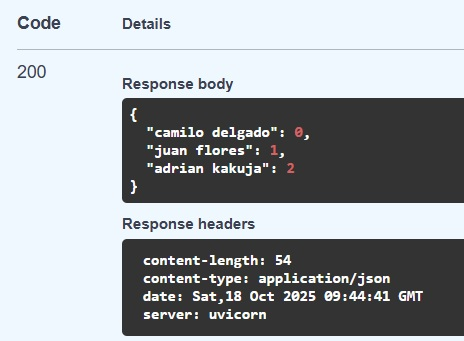
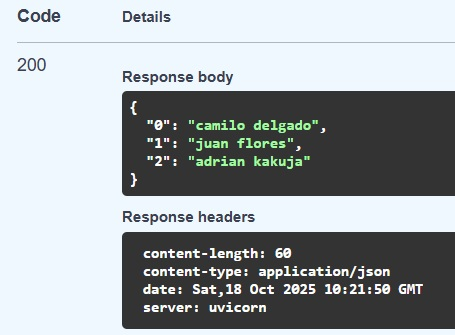
Responses corrected in endpoints

diff --git a/main.py b/main.py
@@ -8,7 +8,7 @@ users_list = []
 async def create_user(new_user: str):
     users_list.append(new_user)
     numbers = range(len(users_list))
-    users_dic = dict(zip(users_list, numbers))
+    users_dic = dict(zip(numbers, users_list))
     return users_dic
 
 @app.get("/api/users/{id}", response_model=dict)
@@ -20,7 +20,7 @@ async def get_user_id(id: int):
 @app.get("/api/users", response_model=dict)
 async def get_all_users():
     numbers = range(len(users_list))
-    users_dic = dict(zip(users_list, numbers))
+    users_dic = dict(zip(numbers, users_list))
     return users_dic
 
 @app.put("/api/users/{id}", response_model=dict)
@@ -34,5 +34,5 @@ async def update_user(id: int, updated_user: str):
 async def delete_user(id: int):
     users_list.pop(id)
     numbers = range(len(users_list))
-    users_dic = dict(zip(users_list, numbers))
+    users_dic = dict(zip(numbers, users_list))
     return users_dic
